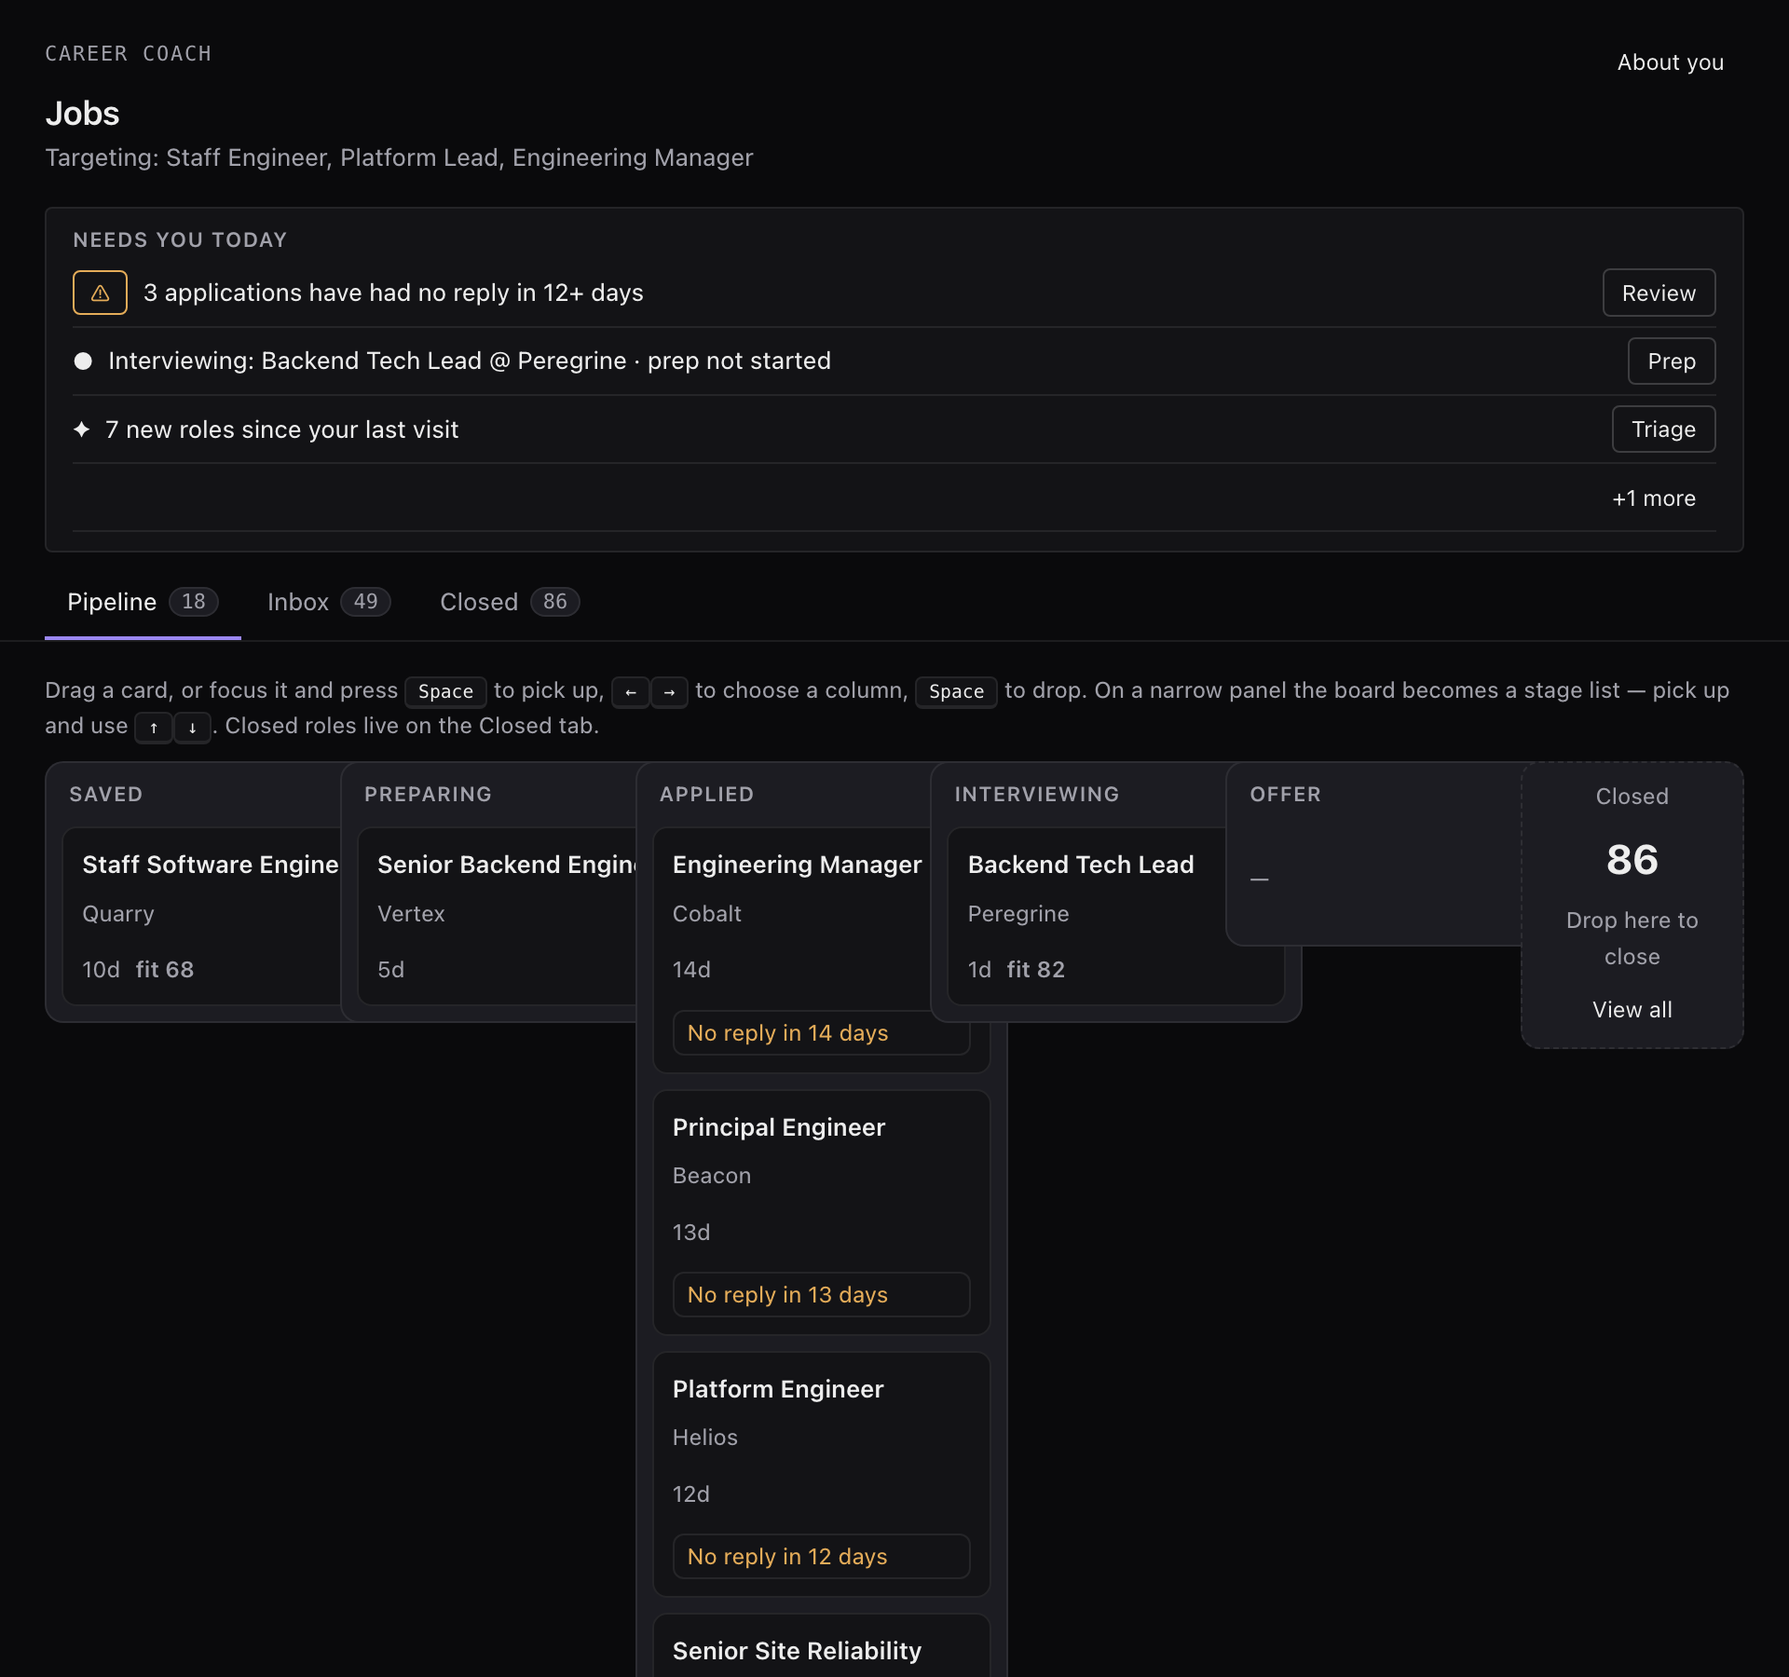
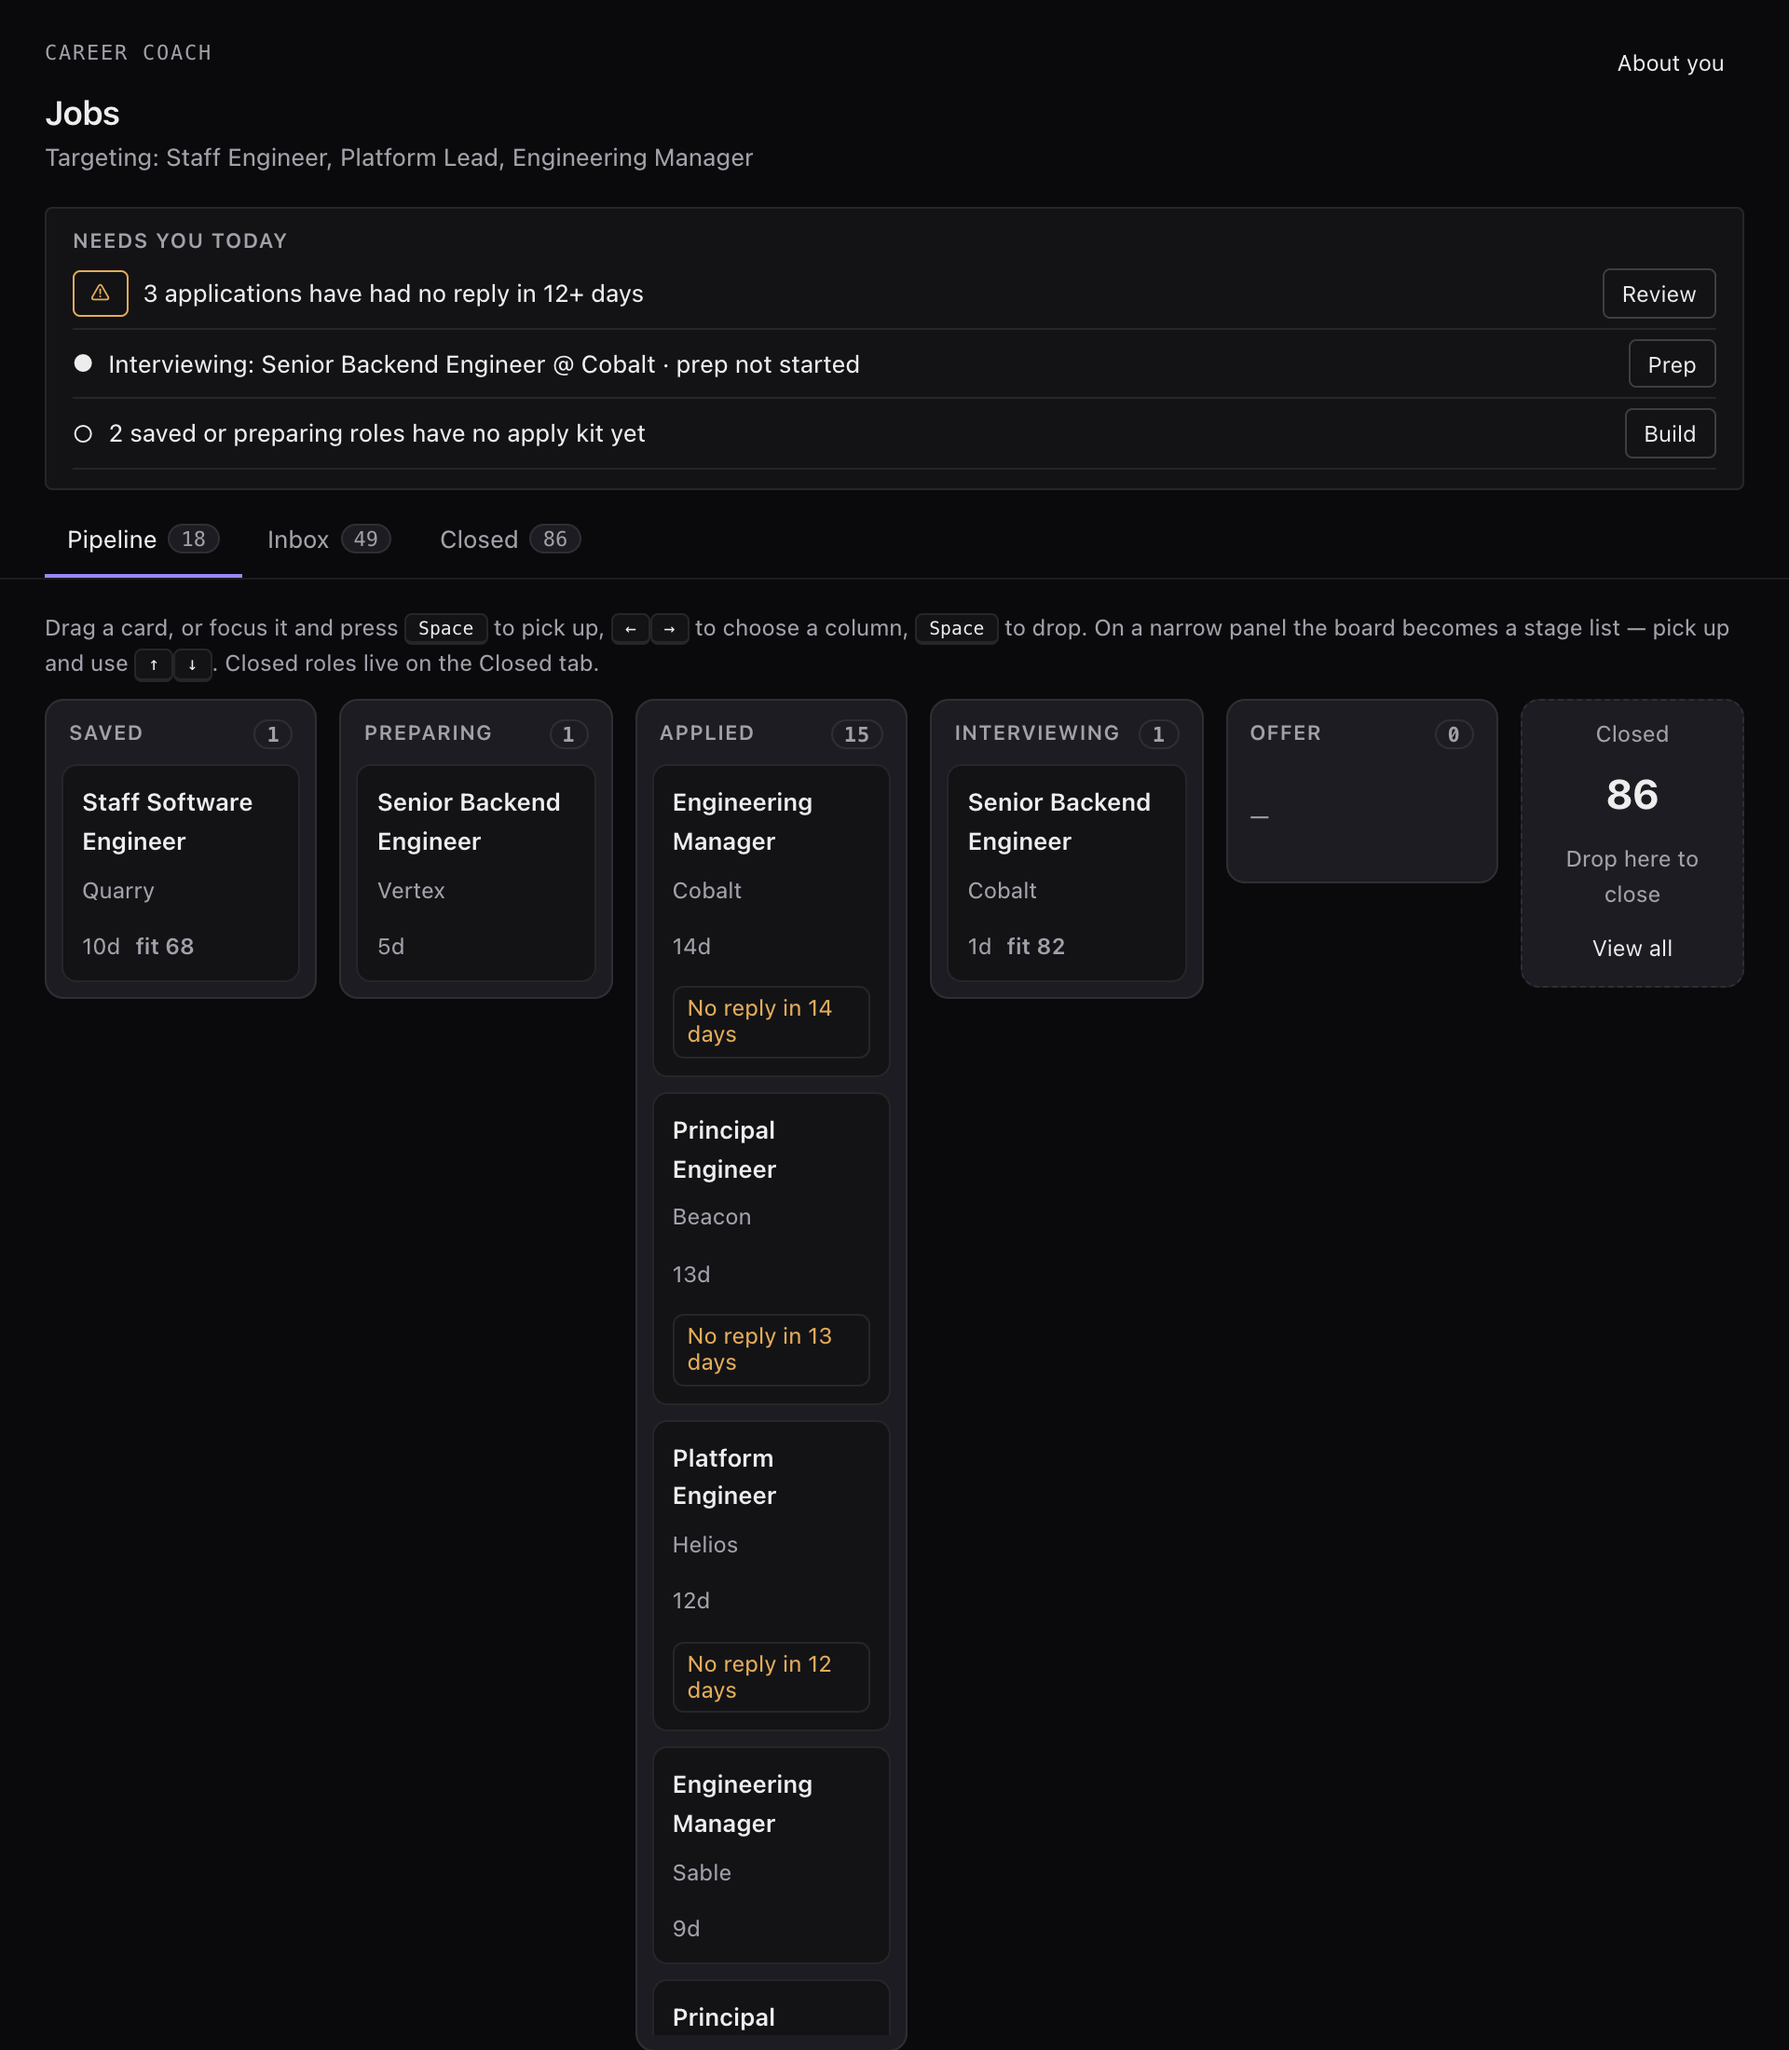
fix: board columns no longer overlap; a long target list stays on one line
The design kit's .pl-board-col sets min-width: 200px, which overrode the
minmax(0, 1fr) grid tracks, so the columns overlapped and clipped titles
below about 1,200px. Found by rendering the view; no test or panel caught
it, and the original 960px screenshots showed the overlap.

Rendering jobCoach's real data also showed 27 target roles taking five
lines of the Targeting line and "About you" wrapping. The line now clamps
to one line with the full list on hover.

Retakes the two 960px screenshots on seeded data.

Refs #85

diff --git a/__init__.py b/__init__.py
@@ -2899,8 +2899,14 @@ _DASHBOARD_HTML = """<!doctype html><html><head><meta charset="utf-8">
     .board { grid-template-columns: repeat(5, 220px) 110px; overflow-x: auto; scroll-snap-type: x mandatory; }
     .col { scroll-snap-align: start; }
   }
+  /* One line whatever the list length: a long target list must not eat the one-viewport page. */
+  .hd > div:first-child { min-width: 0; }
+  #sub { white-space: nowrap; overflow: hidden; text-overflow: ellipsis; }
+  #about-btn { flex: none; white-space: nowrap; }
+  /* min-width: 0 — the kit's .pl-board-col sets 200px, which would push the shared grid tracks into
+     each other below about 1,200px. */
   .col { background: var(--pl-color-bg-subtle); border: 1px solid var(--pl-color-border); border-radius: 10px;
-         padding: 8px; min-height: 60px; }
+         padding: 8px; min-height: 60px; min-width: 0; }
   .col.over { border-color: var(--pl-color-accent); border-style: dashed; }
   .col h3 { font-size: 11px; text-transform: uppercase; letter-spacing: .05em; margin: 2px 4px 8px;
             color: var(--pl-color-fg-muted); font-weight: 600; display: flex; justify-content: space-between; }
@@ -2913,7 +2919,7 @@ _DASHBOARD_HTML = """<!doctype html><html><head><meta charset="utf-8">
            padding: 9px 10px; cursor: grab; }
   .pcard:focus-visible { outline: 2px solid var(--pl-color-focus); outline-offset: -2px; }
   .pcard.lift { border-color: var(--pl-color-accent); }  /* picked up by keyboard (§3, WCAG 2.5.7) */
-  .pcard .prole { font-weight: 600; font-size: 13px; }
+  .pcard .prole { font-weight: 600; font-size: 13px; overflow-wrap: anywhere; }
   .pcard .pco { color: var(--pl-color-fg-muted); font-size: 12px; }
   .pcard .pmeta { display: flex; gap: 8px; align-items: baseline; font-size: 12px; color: var(--pl-color-fg-muted); margin-top: 5px; }
   .pcard .fit { font-variant-numeric: tabular-nums; }
@@ -3401,7 +3407,7 @@ _DASHBOARD_HTML = """<!doctype html><html><head><meta charset="utf-8">
     var st = (STATE && STATE.settings) || {};
     var roles = st.target_roles || '';
     var sub = document.getElementById('sub');
-    if (roles) { sub.textContent = 'Targeting: ' + roles; sub.hidden = false; }
+    if (roles) { sub.textContent = 'Targeting: ' + roles; sub.title = roles; sub.hidden = false; }
     else { sub.textContent = ''; sub.hidden = true; }
   }
   // The Today band's rows, in priority order (§2): overdue follow-ups, interviews to prep, offers

diff --git a/tests/test_jobs_page.py b/tests/test_jobs_page.py
@@ -1435,3 +1435,15 @@ def test_drawer_close_falls_back_to_current_tab_control(plugin, collapsed, hidde
       closeDetail();
     """)
     assert ctx.eval("document.activeElement === control") is True
+
+
+def test_board_columns_share_the_width_instead_of_the_kits_min_width(plugin):
+    """The kit's .pl-board-col sets min-width: 200px, which overlapped the columns under about 1,200px."""
+    css = plugin._DASHBOARD_HTML
+    assert re.search(r"\.col \{[^}]*min-width: 0;", css)
+
+
+def test_a_long_target_list_stays_on_one_line_and_keeps_the_full_text(plugin):
+    css = plugin._DASHBOARD_HTML
+    assert "#sub { white-space: nowrap; overflow: hidden; text-overflow: ellipsis; }" in css
+    assert "sub.title = roles" in css
